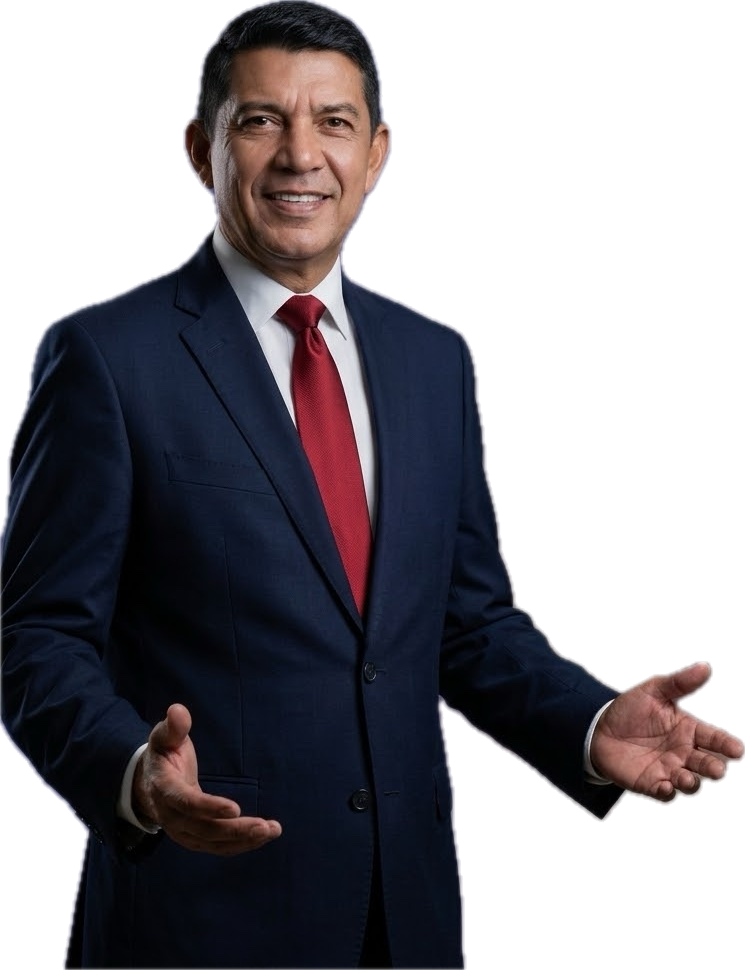
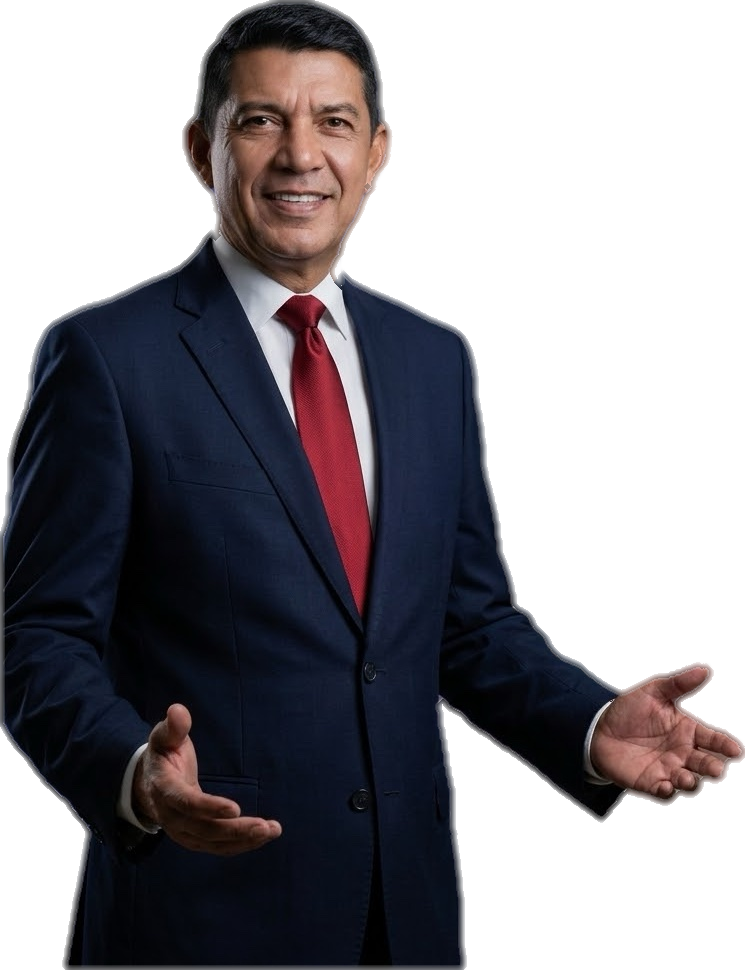
Enlarge desktop sticker, soften outline, zoom out cathedral
Remove the white sticker stroke and feather the cutout edge, scale
the desktop portrait up, and use a full-frame cathedral crop.

diff --git a/src/app/globals.css b/src/app/globals.css
@@ -229,18 +229,13 @@ body::before {
 
 @media (min-width: 1024px) {
   .hero-cathedral-bg {
-    /*
-      Oversized + nudged right so the carved facade sits in the open
-      center-right (clear of the sticker) without exposing the shell color.
-    */
-    inset: auto;
-    top: 50%;
-    left: 50%;
-    width: 148%;
-    height: 148%;
+    /* Zoomed out cover — full frame, facade biased slightly right */
+    inset: 0;
+    width: 100%;
+    height: 100%;
     object-fit: cover;
-    object-position: center;
-    transform: translate(-38%, -50%);
+    object-position: 72% 38%;
+    transform: none;
   }
 }
 
@@ -311,9 +306,9 @@ body::before {
 @media (min-width: 1024px) {
   .hero-portrait-grid {
     display: grid;
-    grid-template-columns: minmax(0, 0.62fr) minmax(0, 1.38fr);
+    grid-template-columns: minmax(0, 0.88fr) minmax(0, 1.12fr);
     align-items: stretch;
-    gap: 1.25rem;
+    gap: 0.5rem;
   }
 
   .hero-portrait-frame {
@@ -333,16 +328,20 @@ body::before {
   .hero-portrait-image {
     position: absolute;
     inset-inline: 0;
-    bottom: 0;
+    bottom: -4%;
     z-index: 10;
     width: auto;
-    max-width: 100%;
-    height: min(86%, 46rem);
+    max-width: none;
+    height: min(112%, 64rem);
     max-height: none;
     margin-inline: auto;
     object-fit: contain;
     object-position: bottom;
-    filter: drop-shadow(0 22px 40px rgba(28, 26, 36, 0.38));
+    /* Soft dark rim + depth — no white sticker stroke */
+    filter:
+      drop-shadow(0 0 0.6px rgba(18, 20, 28, 0.45))
+      drop-shadow(0 0 3px rgba(18, 20, 28, 0.18))
+      drop-shadow(0 20px 38px rgba(28, 26, 36, 0.3));
   }
 
   .hero-portrait-copy {

diff --git a/src/content/site/config.ts b/src/content/site/config.ts
@@ -14,7 +14,7 @@ export const siteConfig = {
   brandShort: "Rony Sorto",
   heroLayout: "portrait" as const,
   heroImage: `${imageFolder}/comayagua-cathedral.jpg`,
-  heroPortrait: `${imageFolder}/hero-sticker.png`,
+  heroPortrait: `${imageFolder}/hero-sticker-soft.png`,
   heroBackground: `${imageFolder}/comayagua-cathedral.jpg`,
   tagline: "Consulte a los expertos",
   description:

diff --git a/public/images/rony-sorto/README.md b/public/images/rony-sorto/README.md
@@ -6,7 +6,8 @@
 | `logo-dark.jpg` | Dark sections | Same as logo for now |
 | `hero.jpg` | Original marketing flyer | Provided |
 | `hero-portrait.jpg` | Older cropped flyer portrait | Archive |
-| `hero-sticker.png` | Transparent agent sticker for layered hero | Provided (keyed from JPEG) |
+| `hero-sticker.png` | Earlier sticker key (white stroke) | Archive |
+| `hero-sticker-soft.png` | Soft-edge agent sticker for layered hero | Provided (stroke removed) |
 | `comayagua-plaza.jpg` | Earlier plaza composite | Archive |
 | `comayagua-cathedral.jpg` | Hero backdrop — cathedral, right-aligned | Provided |
 | `hero-background.jpg` | Older plaza crop | Archive |
